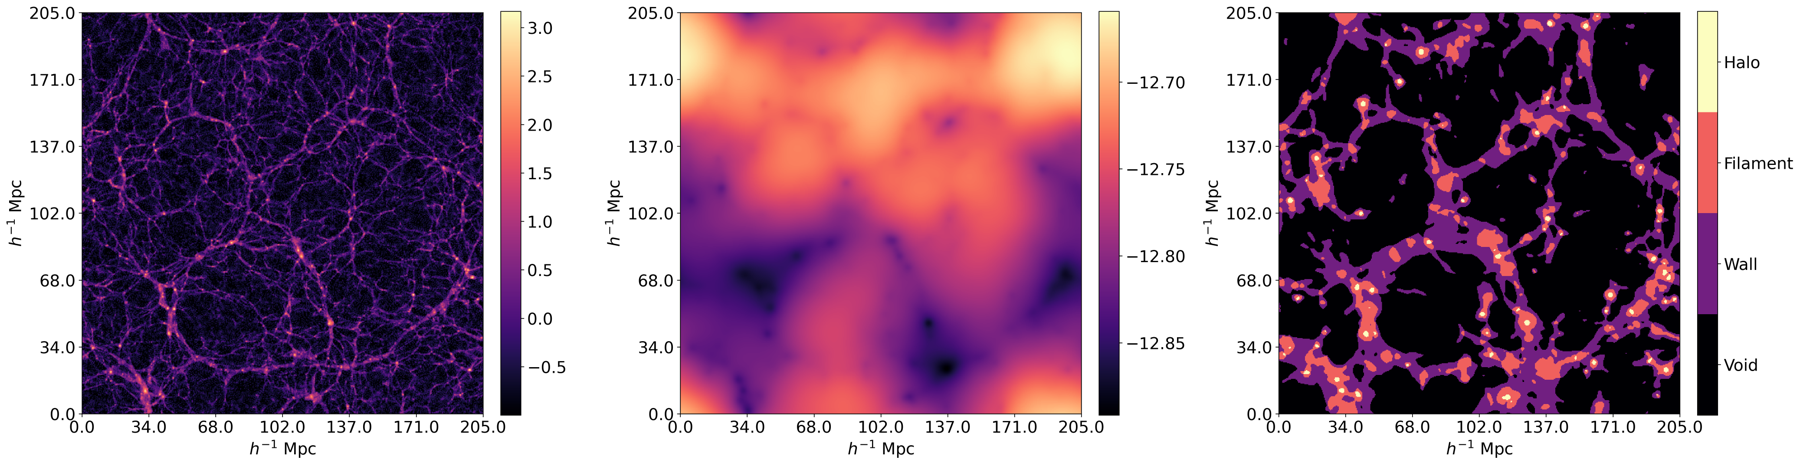
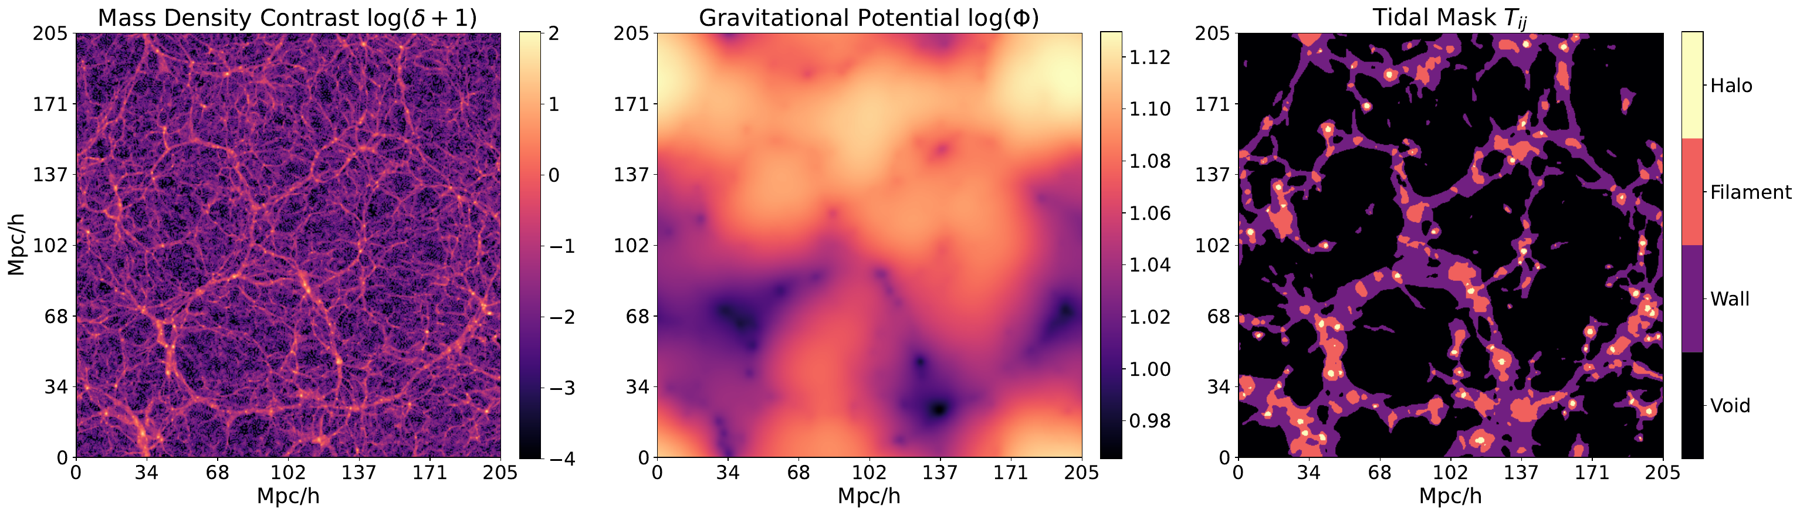
Docs: follow the collaborations citation requests, spell out abbreviations, describe the potential panel

diff --git a/docs/overview.md b/docs/overview.md
@@ -200,7 +200,7 @@ All of these tests need a catalog of voids.
   On real data, Nadathur et al. (2019) measured D_A H / c (D_A is the angular
   diameter distance, H the Hubble rate, c the speed of light) at redshift
   z = 0.57 from voids in the Baryon Oscillation Spectroscopic Survey (BOSS;
-  Dawson et al. 2013) to 1%, about 3.5 times tighter than BAO in the same sample,
+  Eisenstein et al. 2011; Dawson et al. 2013) to 1%, about 3.5 times tighter than BAO in the same sample,
   using the void–galaxy correlation function (see also Hamaus et al. 2020).
 - **Integrated Sachs–Wolfe (ISW) effect** (Sachs & Wolfe 1967). Dark energy
   makes the gravitational potential of a void decay while a photon of the cosmic microwave background (CMB, the light
@@ -276,7 +276,7 @@ upcoming surveys will map voids to much greater depth:
   Science Collaboration 2009; Ivezić et al. 2019);
 - SPHEREx, the Spectro-Photometer for the History of the Universe, Epoch of
   Reionization and Ices Explorer (Doré et al. 2018);
-- Euclid (Laureijs et al. 2011; Euclid Collaboration: Mellier et al. 2024);
+- Euclid (Laureijs et al. 2011; Euclid Collaboration: Mellier et al. 2025);
 - the Nancy Grace Roman Space Telescope (Spergel et al. 2015; Wang et al.
   2022).
  This work trains on real-space simulation
@@ -295,8 +295,9 @@ particles under gravity in a periodic cube (a box whose opposite faces are
 identified, so there are no edges) from nearly uniform initial conditions to
 today.
 
-DeepVoid uses **IllustrisTNG** (Pillepich et al. 2018; Springel et al. 2018;
-Nelson et al. 2019), specifically its largest box, TNG300: a periodic box of side
+DeepVoid uses **IllustrisTNG** (Marinacci et al. 2018; Naiman et al. 2018;
+Nelson et al. 2018; Pillepich et al. 2018; Springel et al. 2018; data
+release: Nelson et al. 2019), specifically its largest box, TNG300: a periodic box of side
 L = 205 h⁻¹ Mpc.
 
 - **Dark matter (DM)** particles sample the matter field densely. Their mean
@@ -427,9 +428,12 @@ $$
 ![Three panels of the same slice: matter density, gravitational potential, and the four-class labels.](figures/density_potential_labels.png)
 
 *From matter to labels, for one slice through the TNG300 box. Left: the dark
-matter density (log scale). Middle: the gravitational potential it produces.
-Right: the T-web labels computed from the potential's second derivatives.
-Figure from Kumagai et al. (2025).*
+matter density contrast, log10(δ + 1). Middle: the gravitational potential Φ
+it produces. The potential is shifted and rescaled before the logarithm is
+taken (log10 of Φ/10⁵ + 5.75, in the simulation's units), so its color scale
+is for display only; bright regions are highs of the potential, where voids
+form. Right: the T-web labels ("tidal mask") computed from the potential's
+second derivatives. Figure from Kumagai et al. (2025).*
 
 **Eigenvalues and classes.** T is a real symmetric 3 × 3 matrix at every
 point, with eigenvalues λ₁ ≥ λ₂ ≥ λ₃ (these λ's are unrelated to the tracer
@@ -884,7 +888,8 @@ planned remedies.
 - de Jong et al. 2016, Proc. SPIE 9908, 473 (4MOST)
 - DESI Collaboration 2016, The DESI Experiment Part I: Science, Targeting, and Survey Design, [arXiv:1611.00036](https://arxiv.org/abs/1611.00036)
 - Doré et al. 2018, Science Impacts of the SPHEREx All-Sky Optical to Near-Infrared Spectral Survey II, [arXiv:1805.05489](https://arxiv.org/abs/1805.05489)
-- Euclid Collaboration: Mellier et al. 2024, Euclid. I. Overview of the Euclid mission, [arXiv:2405.13491](https://arxiv.org/abs/2405.13491)
+- Eisenstein et al. 2011, AJ 142, 72 (SDSS-III)
+- Euclid Collaboration: Mellier et al. 2025, A&A 697, A1 (Euclid. I. Overview of the Euclid mission), [arXiv:2405.13491](https://arxiv.org/abs/2405.13491)
 - Falck & Neyrinck 2015, MNRAS 450, 3239, [arXiv:1410.4751](https://arxiv.org/abs/1410.4751)
 - Falck, Neyrinck & Szalay 2012, ApJ 754, 126, [arXiv:1201.2353](https://arxiv.org/abs/1201.2353)
 - Forero-Romero et al. 2009, MNRAS 396, 1815 (eigenvalue threshold), [arXiv:0809.4135](https://arxiv.org/abs/0809.4135)
@@ -908,11 +913,14 @@ planned remedies.
 - Linder 2003, Phys. Rev. Lett. 90, 091301, [arXiv:astro-ph/0208512](https://arxiv.org/abs/astro-ph/0208512)
 - Loshchilov & Hutter 2019, ICLR (AdamW), [arXiv:1711.05101](https://arxiv.org/abs/1711.05101)
 - LSST Science Collaboration 2009, LSST Science Book, Version 2.0, [arXiv:0912.0201](https://arxiv.org/abs/0912.0201)
+- Marinacci et al. 2018, MNRAS 480, 5113 (IllustrisTNG)
 - Massara et al. 2015, JCAP 11, 018, [arXiv:1506.03088](https://arxiv.org/abs/1506.03088)
 - Melchior et al. 2014, MNRAS 440, 2922, [arXiv:1309.2045](https://arxiv.org/abs/1309.2045)
 - Nadathur & Crittenden 2016, ApJ 830, L19, [arXiv:1608.08638](https://arxiv.org/abs/1608.08638)
 - Nadathur et al. 2019, Phys. Rev. D 100, 023504, [arXiv:1904.01030](https://arxiv.org/abs/1904.01030)
 - Nadathur, Hotchkiss & Crittenden 2017, MNRAS 467, 4067, [arXiv:1610.08382](https://arxiv.org/abs/1610.08382)
+- Naiman et al. 2018, MNRAS 477, 1206 (IllustrisTNG)
+- Nelson et al. 2018, MNRAS 475, 624 (IllustrisTNG), [arXiv:1707.03395](https://arxiv.org/abs/1707.03395)
 - Nelson et al. 2019, ComAC 6, 2 (IllustrisTNG data release), [arXiv:1812.05609](https://arxiv.org/abs/1812.05609)
 - Neyrinck 2008, MNRAS 386, 2101, [arXiv:0712.3049](https://arxiv.org/abs/0712.3049)
 - Palmer & Voglis 1983, MNRAS 205, 543
@@ -932,6 +940,6 @@ planned remedies.
 - Veyrat, Douglass & BenZvi 2023, ApJ 958, 59, [arXiv:2302.05469](https://arxiv.org/abs/2302.05469)
 - Wang et al. 2022, ApJ 928, 1 (Roman High Latitude Spectroscopic Survey), [arXiv:2110.01829](https://arxiv.org/abs/2110.01829)
 - van de Weygaert & Platen 2011, Int. J. Mod. Phys. Conf. Ser. 1, 41, [arXiv:0912.2997](https://arxiv.org/abs/0912.2997)
-- York et al. 2000, AJ 120, 1579 (SDSS)
+- York et al. 2000, AJ 120, 1579 (SDSS), [arXiv:astro-ph/0006396](https://arxiv.org/abs/astro-ph/0006396)
 - Zel'dovich 1970, A&A 5, 84
 - Zhou et al. 2023, AJ 165, 58 (DESI luminous red galaxies), [arXiv:2208.08515](https://arxiv.org/abs/2208.08515)

diff --git a/docs/training.md b/docs/training.md
@@ -30,7 +30,7 @@ as `config.yaml` in the run folder.
 | `model.depth`, `model.base_filters` | 4, 16 | U-Net size |
 | `model.batch_norm`, `model.bn_momentum` | true, 0.99 | Batch normalization |
 | `model.dropout` | 0 | Dropout at the bottom of the U-Net |
-| `model.conditioning` | null | Condition on tracer spacing (FiLM), e.g. `{units: 32, noise: 0.1}`; see below |
+| `model.conditioning` | null | Condition on tracer spacing (FiLM, feature-wise linear modulation), e.g. `{units: 32, noise: 0.1}`; see below |
 | `model.deep_supervision` | false | Extra training outputs at each coarser level; see below |
 | `training.crop` | 96 | Training crop side in cells |
 | `training.batch_size` | 8 | Crops per step |
@@ -50,7 +50,7 @@ as `config.yaml` in the run folder.
 | `training.loss.void_weight` | 0 | Weight of an added void-vs-rest term; see below |
 | `training.early_stopping` | `val_void_mcc`, patience 15, min_delta 0.002 | Score to track (`val_void_mcc`: void against everything else; `val_mcc`: all four classes), and epochs to wait without a gain of at least `min_delta` |
 | `training.mixed_precision` | true | float16 compute, float32 weights |
-| `training.xla` | true | Compile the training step with XLA |
+| `training.xla` | true | Compile the training step with XLA (TensorFlow's Accelerated Linear Algebra compiler) |
 | `training.resume` | true | Continue an interrupted run in the same folder |
 | `evaluate.crop`, `evaluate.margin` | 128, 32 | Crop size and discarded edge for full-box prediction. The margin should cover the model's effective receptive field: with 16 cells, tile seams showed in the λ = 10 predictions (notebook 08). Re-score an older run with `evaluate_run(out, margin=32)` |
 | `evaluate.tta` | `none` | Test-time augmentation: `none`, `flips` (8x) or `full` (48x) |
@@ -69,9 +69,9 @@ as `config.yaml` in the run folder.
 3. Each step draws `batch_size` crops from the training slab on the GPU and
    applies one random cube symmetry to the batch. The crops for a given seed,
    epoch and step are always the same.
-4. After each step the weight average (EMA) is updated.
+4. After each step the exponential moving average (EMA) of the weights is updated.
 5. After each epoch the averaged weights score the fixed validation crops
-   (loss, accuracy, MCC, void F1, halo F1). These are 64^3 by default,
+   (loss, accuracy, Matthews correlation coefficient (MCC), void F1, halo F1). These are 64^3 by default,
    smaller than the training crops, because the validation slab is thinner
    than the training slab. The best epoch by the monitored
    score is saved as `best.keras` (any gain counts). Training stops after
@@ -112,7 +112,7 @@ how many layers were copied. Every layer stays trainable. Use a lower
 learning rate than from scratch (`configs/subhalo/B_finetune_L10.yaml` uses
 2e-4 with one warmup epoch).
 
-**Spacing conditioning (FiLM).** With `model.conditioning`, the model also
+**Spacing conditioning (FiLM, feature-wise linear modulation; Perez et al. 2018).** With `model.conditioning`, the model also
 takes the tracer spacing lambda = n^(-1/3), read from each input's
 `spacing` in the catalog. log(lambda) goes through a two-layer network
 with `units` outputs, and after every normalization layer the features are

diff --git a/README.md b/README.md
@@ -11,8 +11,10 @@ effects (redshift-space distortions, survey masks, selection functions) can
 be added without touching the rest.
 
 Status: early. Labels reproduce the dissertation's TNG masks exactly, and a
-first dark-matter baseline on TNG300-3 reaches a test-slab MCC of 0.86 and
-void F1 of 0.97. The current training setup (EMA, cosine schedule, resume)
+first dark-matter baseline on TNG300-3 reaches a test-slab Matthews
+correlation coefficient (MCC) of 0.86 and void F1 score of 0.97. The current
+training setup (an exponential moving average of the weights (EMA), cosine
+learning-rate schedule, resume)
 is described in [docs/training.md](docs/training.md).
 
 ## Layout
@@ -44,7 +46,7 @@ src/deepvoid/
   evaluate.py         confusion matrices, F1, MCC, void scores and the void threshold
   calibrate.py        reliability (calibration) of the class scores, temperature scaling
   figures.py          standard figures: fields, training curves, predictions, summary
-  interpret.py        looking inside a model: CKA, probes, receptive field
+  interpret.py        looking inside a model: centered kernel alignment (CKA), probes, receptive field
   report.py           saving a notebook's figures and numbers
 scripts/              one-off utilities
 notebooks/            Colab front-ends
@@ -113,7 +115,7 @@ comparable.
 | Final scores | Validation subcubes | A separate test slab that is never used for choosing models, early stopping or thresholds |
 | Augmentation | Rotated copies stored with the data | The 48 rotations and reflections of a cube, applied on the fly to each training batch |
 | Normalization | Min–max, refit on each volume | log10(ρ/ρ̄ + 10⁻³), standardized with statistics from the training slab and saved with the model |
-| Sparse tracers | Curriculum from dense to sparse inputs, freezing encoder blocks | One model trained on several tracer spacings at once, optionally with a smoothed copy of the input as a second channel; curricula and spacing conditioning (FiLM) remain options |
+| Sparse tracers | Curriculum from dense to sparse inputs, freezing encoder blocks | One model trained on several tracer spacings at once, optionally with a smoothed copy of the input as a second channel; curricula and spacing conditioning (FiLM, feature-wise linear modulation) remain options |
 | Full-box prediction | Overlapping patches, keeping their central regions | The same, with the kept region and overlap set in the config |
 | Scores | Per-class F1, MCC | The same, plus void-vs-rest scores, a void-score threshold chosen on the validation slab, and calibration of the class scores |
 

diff --git a/notebooks/README.md b/notebooks/README.md
@@ -8,17 +8,17 @@ repo while it is private.
 
 | Notebook | Purpose |
 |---|---|
-| `00_data_check.ipynb` | Load TNG and Bolshoi, check alignment and class fractions, recompute the masks |
+| `00_data_check.ipynb` | Load the IllustrisTNG (TNG) and Bolshoi simulations, check alignment and class fractions, recompute the masks |
 | `01_smoke_test.ipynb` | Tiny train, resume and score run to check the training code |
 | `02_tng_baseline.ipynb` | Dark-matter baseline on TNG300-3 |
 | `03_bolshoi_transfer.ipynb` | The TNG baseline applied to Bolshoi without retraining |
-| `04_subhalo_smoke_test.ipynb` | Tiny run checking FiLM, curriculum and `init_from` before the subhalo runs |
+| `04_subhalo_smoke_test.ipynb` | Tiny run checking FiLM (feature-wise linear modulation, the spacing conditioning), curriculum and `init_from` before the subhalo runs |
 | `05_subhalo_train.ipynb` | Trains one config from `configs/subhalo/` per session |
 | `06_subhalo_compare.ipynb` | Re-scores finished runs; four-class and void scores by run and spacing, void precision–recall curves, and the FiLM spacing sweep |
 | `07_coarse_grid.ipynb` | 256³ inputs and mask for coarse-grid runs, and the score ceiling of a 256³ grid |
-| `08_interpretability.ipynb` | Activation maps, CKA across spacings, a probe for λ, effective receptive field, error and score-entropy maps, accuracy vs distance to the nearest tracer, reliability of the class scores |
+| `08_interpretability.ipynb` | Activation maps, centered kernel alignment (CKA) across spacings, a probe for λ, effective receptive field, error and score-entropy maps, accuracy vs distance to the nearest tracer, reliability of the class scores |
 | `09_figures.ipynb` | Figures from data, finished runs and trained models, including the README summary figure |
-| `10_pointclouds.ipynb` | 3D views for Potree: the subhalo samples colored by T-web class, and a λ = 10 slab with void/wall errors, void surfaces and dark matter |
+| `10_pointclouds.ipynb` | 3D views for Potree: the subhalo samples colored by T-web (tidal-tensor) class, and a λ = 10 slab with void/wall errors, void surfaces and dark matter |
 
 Planned:
 

diff --git a/docs/conventions.md b/docs/conventions.md
@@ -48,7 +48,8 @@ Cloud-in-cell, grid points at integer multiples of the cell size
 - Input normalization (log10(rho/rho_bar + 1e-3), then standardized) is fit on
   the training slab and saved with each run.
 - Training crops (96^3 by default) are drawn inside the training slab, and the
-  model is chosen by validation void MCC (void against the other three
+  model is chosen by validation void MCC (Matthews correlation coefficient;
+  void against the other three
   classes) on fixed 64^3 crops from the validation slab. Reported scores come
   from full-box prediction scored on the test slab only.
 
